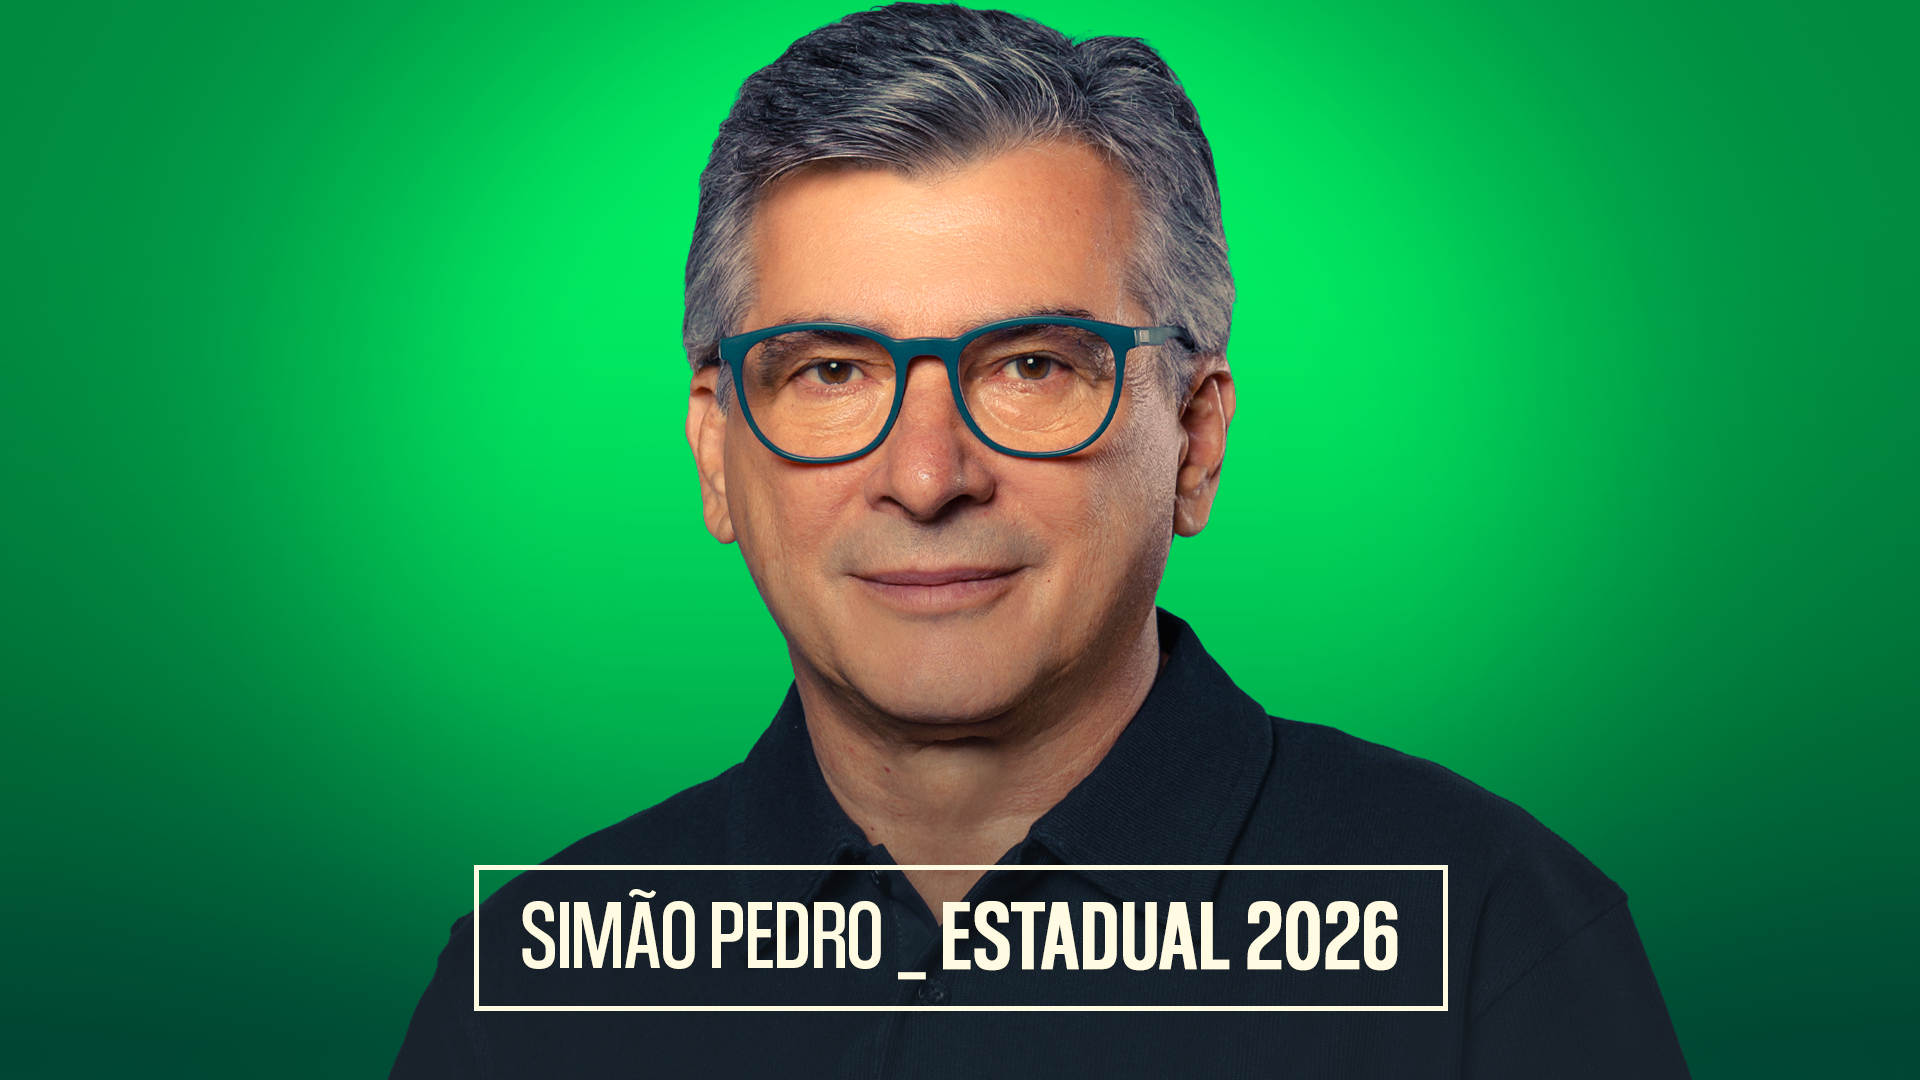
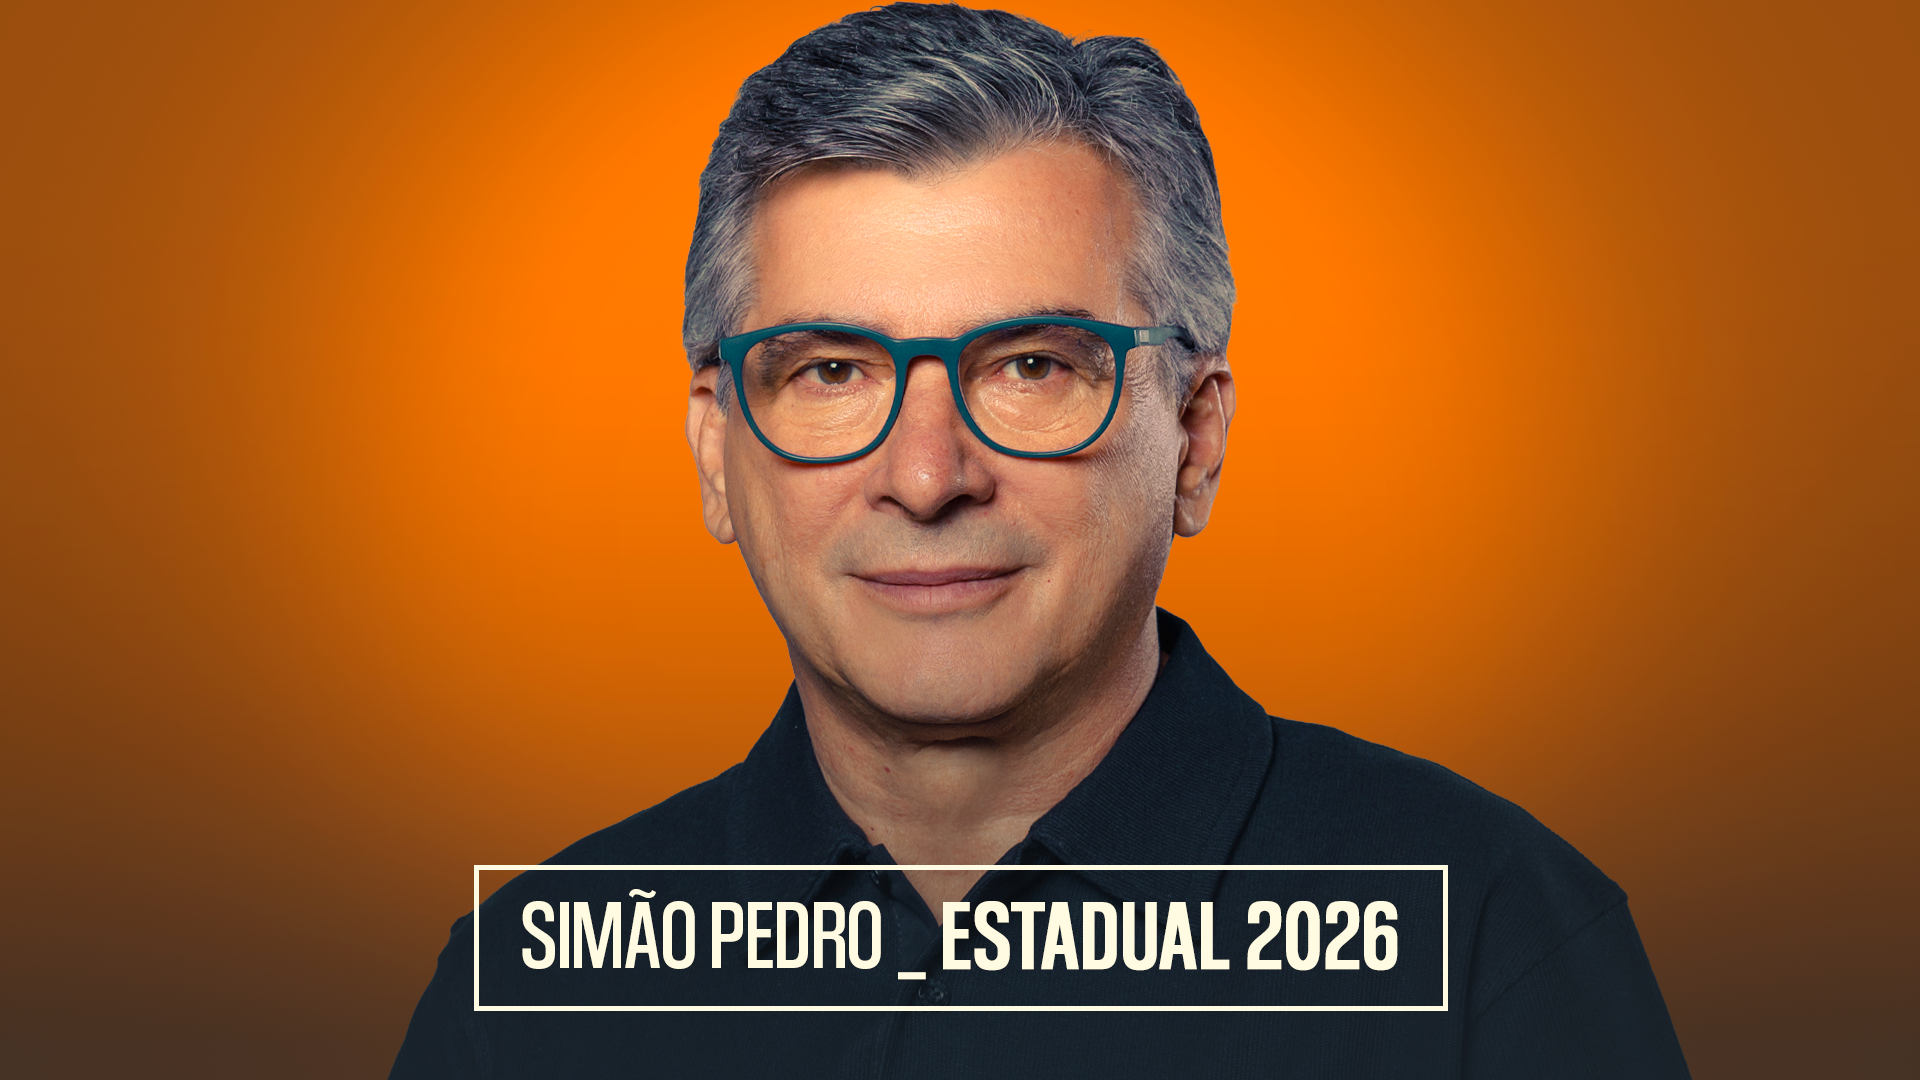
feat: novas seções Helio e Jessy, imagens atualizadas e reordenação do portfolio

diff --git a/src/data/cases.ts b/src/data/cases.ts
@@ -11,44 +11,14 @@ export type PortfolioCase = {
 
 export const cases: PortfolioCase[] = [
   {
-    id: 'marina-silva',
-    name: 'Marina Silva',
-    role: 'Senadora',
-    year: '2026',
-    bgColor: '#004433',
-    image: '/images/cases/marina.png',
-    imagePlaceholder: 'MS',
-    href: '/marina',
-  },
-  {
-    id: 'nabil-bonduki',
-    name: 'Nabil Bonduki',
-    role: 'Vereador',
-    year: '2012/2024',
-    bgColor: '#961C49',
-    image: '/images/cases/nabil.png',
-    imagePlaceholder: 'NB',
-    href: '/nabil',
-  },
-  {
-    id: 'luna-zarattini',
-    name: 'Luna Zarattini',
-    role: 'Federal',
-    year: '2026',
-    bgColor: '#963E01',
-    image: '/images/cases/luna.png',
-    imagePlaceholder: 'LZ',
-    href: '/luna',
-  },
-  {
-    id: 'eduardo-zanatta',
-    name: 'Eduardo Zanatta',
-    role: 'Federal',
-    year: '2026',
-    bgColor: '#003C86',
-    image: '/images/cases/zanatta.png',
-    imagePlaceholder: 'EZ',
-    href: '/zanatta',
+    id: 'dilma-rousseff',
+    name: 'Dilma Rousseff',
+    role: 'Presidência',
+    year: '2014',
+    bgColor: '#A1143C',
+    image: '/images/cases/dilma.png',
+    imagePlaceholder: 'DR',
+    href: '/dilma',
   },
   {
     id: 'paulo-teixeira',
@@ -61,6 +31,36 @@ export const cases: PortfolioCase[] = [
     href: '/paulo',
   },
   {
+    id: 'fernando-haddad',
+    name: 'Fernando Haddad',
+    role: 'Presidência',
+    year: '2018',
+    bgColor: '#002C8D',
+    image: '/images/cases/haddad.png',
+    imagePlaceholder: 'FH',
+    href: '/haddad',
+  },
+  {
+    id: 'marina-silva',
+    name: 'Marina Silva',
+    role: 'Senadora',
+    year: '2026',
+    bgColor: '#004433',
+    image: '/images/cases/marina.png',
+    imagePlaceholder: 'MS',
+    href: '/marina',
+  },
+  {
+    id: 'luna-zarattini',
+    name: 'Luna Zarattini',
+    role: 'Federal',
+    year: '2026',
+    bgColor: '#963E01',
+    image: '/images/cases/luna.png',
+    imagePlaceholder: 'LZ',
+    href: '/luna',
+  },
+  {
     id: 'ze-dirceu',
     name: 'Zé Dirceu',
     role: 'Federal',
@@ -69,6 +69,26 @@ export const cases: PortfolioCase[] = [
     image: '/images/cases/ze.png',
     imagePlaceholder: 'ZD',
     href: '/ze',
+  },
+  {
+    id: 'nabil-bonduki',
+    name: 'Nabil Bonduki',
+    role: 'Vereador',
+    year: '2012/2024',
+    bgColor: '#961C49',
+    image: '/images/cases/nabil.png',
+    imagePlaceholder: 'NB',
+    href: '/nabil',
+  },
+  {
+    id: 'sonia-guajajara',
+    name: 'Sonia Guajajara',
+    role: 'Federal',
+    year: '2026',
+    bgColor: '#00493C',
+    image: '/images/cases/guajajara.png',
+    imagePlaceholder: 'SG',
+    href: '/guajajara',
   },
   {
     id: 'simao-pedro',
@@ -81,26 +101,6 @@ export const cases: PortfolioCase[] = [
     href: '/simao',
   },
   {
-    id: 'dilma-rousseff',
-    name: 'Dilma Rousseff',
-    role: 'Presidência',
-    year: '2014',
-    bgColor: '#A1143C',
-    image: '/images/cases/dilma.png',
-    imagePlaceholder: 'DR',
-    href: '/dilma',
-  },
-  {
-    id: 'fernando-haddad',
-    name: 'Fernando Haddad',
-    role: 'Presidência',
-    year: '2018',
-    bgColor: '#002C8D',
-    image: '/images/cases/haddad.png',
-    imagePlaceholder: 'FH',
-    href: '/haddad',
-  },
-  {
     id: 'congresso-do-povo',
     name: 'Congresso do Povo',
     role: 'Movimento',
@@ -111,13 +111,33 @@ export const cases: PortfolioCase[] = [
     href: '/congresso',
   },
   {
-    id: 'sonia-guajajara',
-    name: 'Sonia Guajajara',
+    id: 'eduardo-zanatta',
+    name: 'Eduardo Zanatta',
     role: 'Federal',
     year: '2026',
-    bgColor: '#00493C',
-    image: '/images/cases/guajajara.png',
-    imagePlaceholder: 'SG',
-    href: '/guajajara',
+    bgColor: '#003C86',
+    image: '/images/cases/zanatta.png',
+    imagePlaceholder: 'EZ',
+    href: '/zanatta',
+  },
+  {
+    id: 'jessy-dayane',
+    name: 'Jessy Dayane',
+    role: 'Estadual',
+    year: '2026',
+    bgColor: '#8E1E5B',
+    image: '/images/cases/jessy.png',
+    imagePlaceholder: 'JD',
+    href: '/jessy',
+  },
+  {
+    id: 'helio-rodrigues',
+    name: 'Hélio Rodrigues',
+    role: 'Vereador',
+    year: '2026',
+    bgColor: '#0A3D91',
+    image: '/images/cases/helio.png',
+    imagePlaceholder: 'HR',
+    href: '/helio',
   },
 ]

diff --git a/src/pages/Jessy.tsx b/src/pages/Jessy.tsx
@@ -1,0 +1,46 @@
+const ITEMS = [
+  'Planejamento estratégico',
+  'Estratégia de redes',
+  'Produção de conteúdo',
+  'Manual de identidade',
+]
+
+export function Jessy() {
+  return (
+    <div className="bg-cream text-charcoal">
+      <h1 className="sr-only">Jessy Dayane — AHH Comunicação Política</h1>
+
+      <img
+        src="/images/jessy/jessy-header.png"
+        alt="Jessy Dayane — Candidata a Deputada Estadual 2026"
+        className="block h-auto w-full"
+        decoding="async"
+      />
+
+      <section
+        aria-label="Sobre a campanha"
+        className="px-6 py-14 sm:px-10 lg:px-[10vw] lg:py-[6vw]"
+      >
+        <p className="text-[clamp(1.3rem,2.2vw,2.2rem)] leading-[1.4]">
+          <strong className="font-semibold">Jessy Dayane (2026)</strong>
+        </p>
+
+        <p className="mt-4 text-[clamp(1.3rem,2.2vw,2.2rem)] leading-[1.4]">
+          <strong className="font-semibold">Candidata a deputada estadual</strong>
+        </p>
+
+        <ul className="mt-6 space-y-5 text-[clamp(1.3rem,2.2vw,2.2rem)] leading-[1.4]">
+          {ITEMS.map((item) => (
+            <li key={item} className="flex items-start gap-4">
+              <span
+                aria-hidden="true"
+                className="mt-[0.5em] h-3 w-3 shrink-0 rounded-full bg-[#8E1E5B]"
+              />
+              <span>{item}</span>
+            </li>
+          ))}
+        </ul>
+      </section>
+    </div>
+  )
+}

diff --git a/src/pages/Helio.tsx b/src/pages/Helio.tsx
@@ -1,0 +1,46 @@
+const ITEMS = [
+  'Planejamento estratégico',
+  'Estratégia de redes',
+  'Produção de conteúdo',
+  'Manual de identidade',
+]
+
+export function Helio() {
+  return (
+    <div className="bg-cream text-charcoal">
+      <h1 className="sr-only">Hélio Rodrigues — AHH Comunicação Política</h1>
+
+      <img
+        src="/images/helio/helio-header.png"
+        alt="Hélio Rodrigues — Mandato Vereador 2026"
+        className="block h-auto w-full"
+        decoding="async"
+      />
+
+      <section
+        aria-label="Sobre a campanha"
+        className="px-6 py-14 sm:px-10 lg:px-[10vw] lg:py-[6vw]"
+      >
+        <p className="text-[clamp(1.3rem,2.2vw,2.2rem)] leading-[1.4]">
+          <strong className="font-semibold">Hélio Rodrigues (2026)</strong>
+        </p>
+
+        <p className="mt-4 text-[clamp(1.3rem,2.2vw,2.2rem)] leading-[1.4]">
+          <strong className="font-semibold">Mandato de vereador</strong>
+        </p>
+
+        <ul className="mt-6 space-y-5 text-[clamp(1.3rem,2.2vw,2.2rem)] leading-[1.4]">
+          {ITEMS.map((item) => (
+            <li key={item} className="flex items-start gap-4">
+              <span
+                aria-hidden="true"
+                className="mt-[0.5em] h-3 w-3 shrink-0 rounded-full bg-[#0A3D91]"
+              />
+              <span>{item}</span>
+            </li>
+          ))}
+        </ul>
+      </section>
+    </div>
+  )
+}

diff --git a/src/App.tsx b/src/App.tsx
@@ -11,6 +11,8 @@ import { Luna } from './pages/Luna'
 import { Zanatta } from './pages/Zanatta'
 import { Paulo } from './pages/Paulo'
 import { Simao } from './pages/Simao'
+import { Helio } from './pages/Helio'
+import { Jessy } from './pages/Jessy'
 import { Ze } from './pages/Ze'
 import { Dilma } from './pages/Dilma'
 import { Haddad } from './pages/Haddad'
@@ -29,6 +31,8 @@ const CASE_ROUTES: Record<string, { title: string; element: JSX.Element }> = {
   '/luna': { title: 'Luna Zarattini', element: <Luna /> },
   '/zanatta': { title: 'Eduardo Zanatta', element: <Zanatta /> },
   '/paulo': { title: 'Paulo Teixeira', element: <Paulo /> },
+  '/helio': { title: 'Hélio Rodrigues', element: <Helio /> },
+  '/jessy': { title: 'Jessy Dayane', element: <Jessy /> },
   '/simao': { title: 'Simão Pedro', element: <Simao /> },
   '/ze': { title: 'Zé Dirceu', element: <Ze /> },
   '/dilma': { title: 'Dilma Rousseff', element: <Dilma /> },

diff --git a/src/components/sections.tsx b/src/components/sections.tsx
@@ -67,6 +67,7 @@ type SplitSectionProps = {
   ratio?: number
   imageBg?: string
   imageCover?: boolean
+  imageStretch?: boolean
   children: ReactNode
 }
 
@@ -80,6 +81,7 @@ export function SplitSection({
   ratio = 0.8,
   imageBg,
   imageCover = false,
+  imageStretch = true,
   children,
 }: SplitSectionProps) {
   return (
@@ -95,7 +97,7 @@ export function SplitSection({
             aria-hidden="true"
             loading="lazy"
             decoding="async"
-            className={imageCover ? 'h-auto w-full object-cover' : 'h-auto w-full object-contain lg:h-full'}
+            className={imageCover ? `h-auto w-full object-cover${imageStretch ? ' lg:h-full' : ''}` : 'h-auto w-full object-contain lg:h-full'}
           />
         </div>
 

diff --git a/src/pages/Juventude.tsx b/src/pages/Juventude.tsx
@@ -104,6 +104,7 @@ export function Juventude() {
         color="#025FFF"
         ratio={0.888}
         imageBg="#323232" imageCover
+        imageStretch={false}
         align="bottom"
         contentClassName="w-full max-w-[40rem] lg:ml-[9.5vw] lg:mr-[10vw]"
       >
